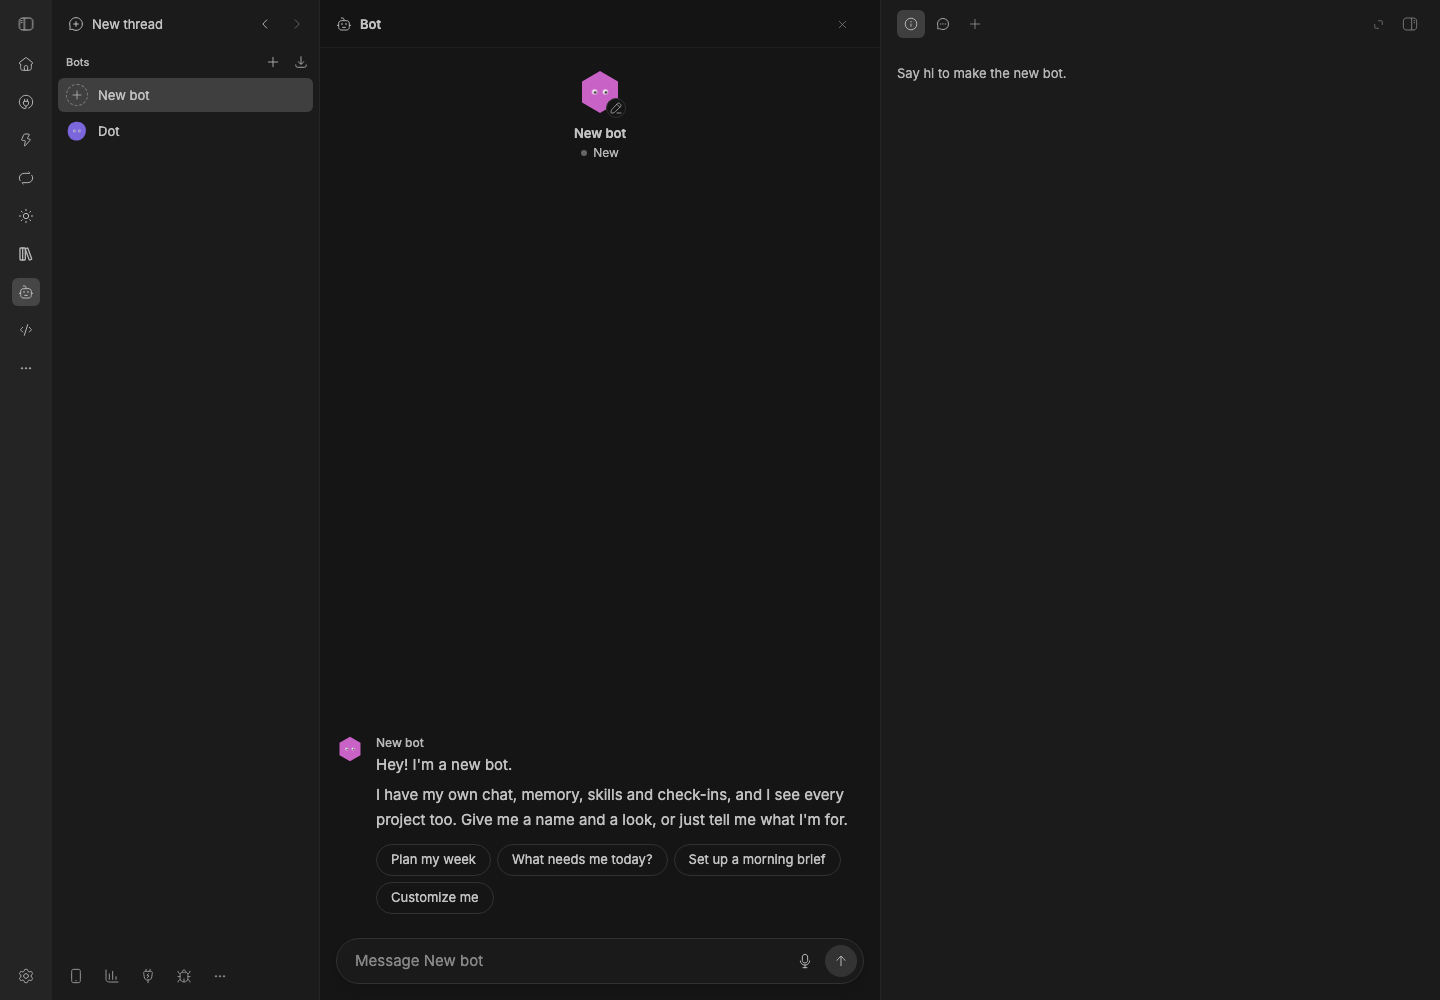
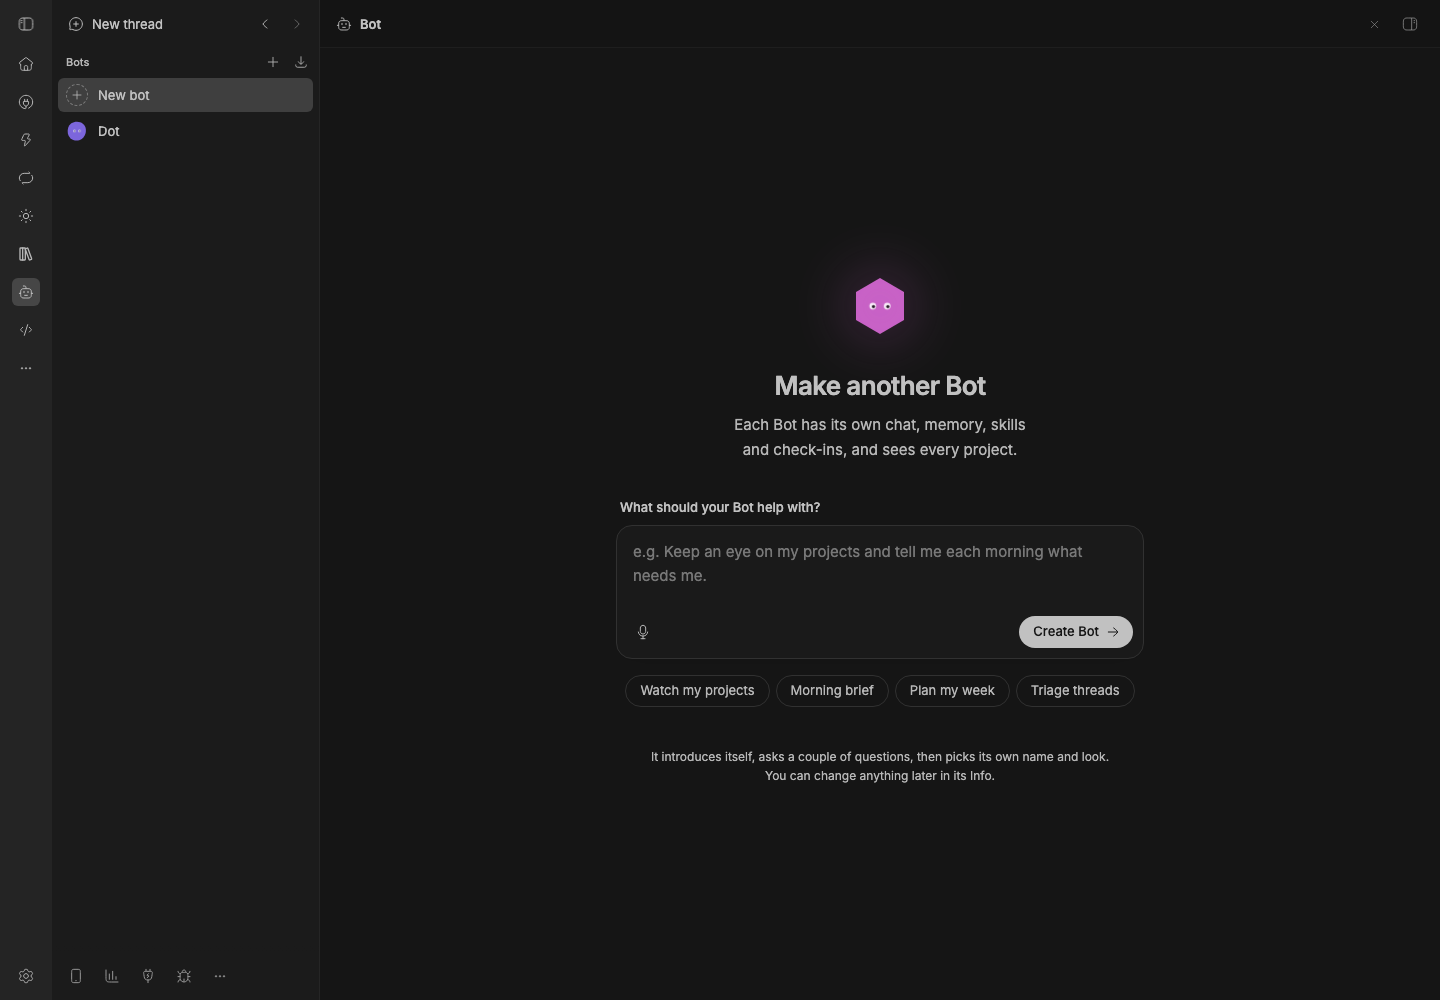
Bot welcome: staged captures of the welcome, New bot and the first chat

diff --git a/packages/bb-studio/README.md b/packages/bb-studio/README.md
@@ -523,11 +523,39 @@ responsive grid, which you and your agents build together. Items are
 ![Live BB screenshot of a dashboard open as a Studio tab](assets/dashboards-preview.png)
 
 The seeded "Launch metrics" dashboard as a Studio tab in a staged BB, in
-view mode: four stat tiles with deltas and sparklines (churn counts down as
-good), an area chart of weekly signups and trials, a custom gauge widget
-running in its sandboxed frame, a table and a changelog feed, all with
-static data. Recapture with `BB_CAPTURE_ONLY=dashboards`; the capture checks
-every tile, the chart and the custom widget's sandbox.
+view mode: four stat tiles with deltas and sparklines (churn and incidents
+count down as good, so the extra incident is red), "Active users" pushed a
+moment ago, an area chart of weekly signups and trials, a custom gauge
+widget running in its sandboxed frame, a table and a changelog feed.
+
+![The same dashboard in BB's light theme](assets/dashboards-light.png)
+
+The same dashboard in BB's light theme.
+
+![A dashboard of tiles that have nothing to show yet](assets/dashboards-states.png)
+
+Tiles with nothing to show yet: a push tile waiting for an agent's data, a
+script waiting for approval (its command, and **Review command…**), a URL
+that couldn't be reached (the reason, and **Try again**), and an empty note,
+next to a working stat. A new dashboard offers **Add widget**:
+
+![A new dashboard with no widgets](assets/dashboards-empty.png)
+
+![Edit mode with the widget picker open](assets/dashboards-edit.png)
+
+Edit mode: dashed tiles with a drag handle, settings and remove in each
+header and a resize corner, over a faint dot grid, with the widget picker
+grouped into numbers, charts, lists and content.
+
+![The script approval dialog](assets/dashboards-approval.png)
+
+The approval dialog for a proposed script (the BB host's name is blurred
+for this README). Recapture all six with
+`BB_CAPTURE_ONLY=dashboards,dashboards-light,dashboards-empty,dashboards-states,dashboards-edit,dashboards-approval`;
+the captures check every tile and its state, the chart, the custom widget's
+sandbox, the edit-mode handles and picker groups, and that the dialog shows
+the full wrapped command with Deny focused, after a forged approve is
+refused.
 
 - **In the library.** Dashboards list next to pages and drawings, with
   search over their names, widget titles and notes, tags, Move to,
@@ -538,7 +566,10 @@ every tile, the chart and the custom widget's sandbox.
   2.3.0 (MIT), 12 columns wide, 8 below 1100 px and 4 below 700 px. **Edit**
   lets you drag tiles by their header, resize them from the corner, **Add
   widget** (each starts with sample data) and open each widget's settings:
-  title, type, options and data source. **Done** goes back to viewing.
+  title, type, options and data source. **Done** goes back to viewing. In
+  view mode each tile's header shows when it updated (or that it failed or
+  waits for approval), and its **⋯** menu refreshes it, opens its settings,
+  reviews or revokes its script, or removes it.
   Layouts save per breakpoint. The clock button lists the last 20 versions;
   restoring one keeps the current one in history.
 - **Widgets.** Stat (value, delta and sparkline), line, bar, area and pie
@@ -1109,6 +1140,8 @@ bb studio reindex
 ![Relay after a Claude Code → Codex handoff: the chat is the new Codex thread, whose real reply says it's here on Codex (gpt-6.1-sol), and its two earlier threads, each titled Relay, are under Earlier conversations in the Bots sidebar](assets/bot-handoff.png)
 
 ![No Bot yet: a centered welcome, Meet your Bot, with a drawn blob avatar, one question (What should your Bot help with?), Create Bot, and ideas that fill it (Watch my projects, Morning brief, Plan my week, Triage threads); the Bots sidebar shows a Your first bot row](assets/bot-create.png)
+
+![The first chat after Create: Chief of Staff's chat as BB's thread page, the setup message with what it should help with (the ORBIT-42 launch), and its reply introducing itself and asking where to track the launch, what needs you and when the morning update should arrive, before it picks its own name and look; the new Bot in the Bots sidebar](assets/bot-first-chat.png)
 
 The Bot is your always-on agent, modelled on ChatGPT's dots. It replaced
 the Chief of Staff: an existing Chief of Staff became the Bot, named "Chief
